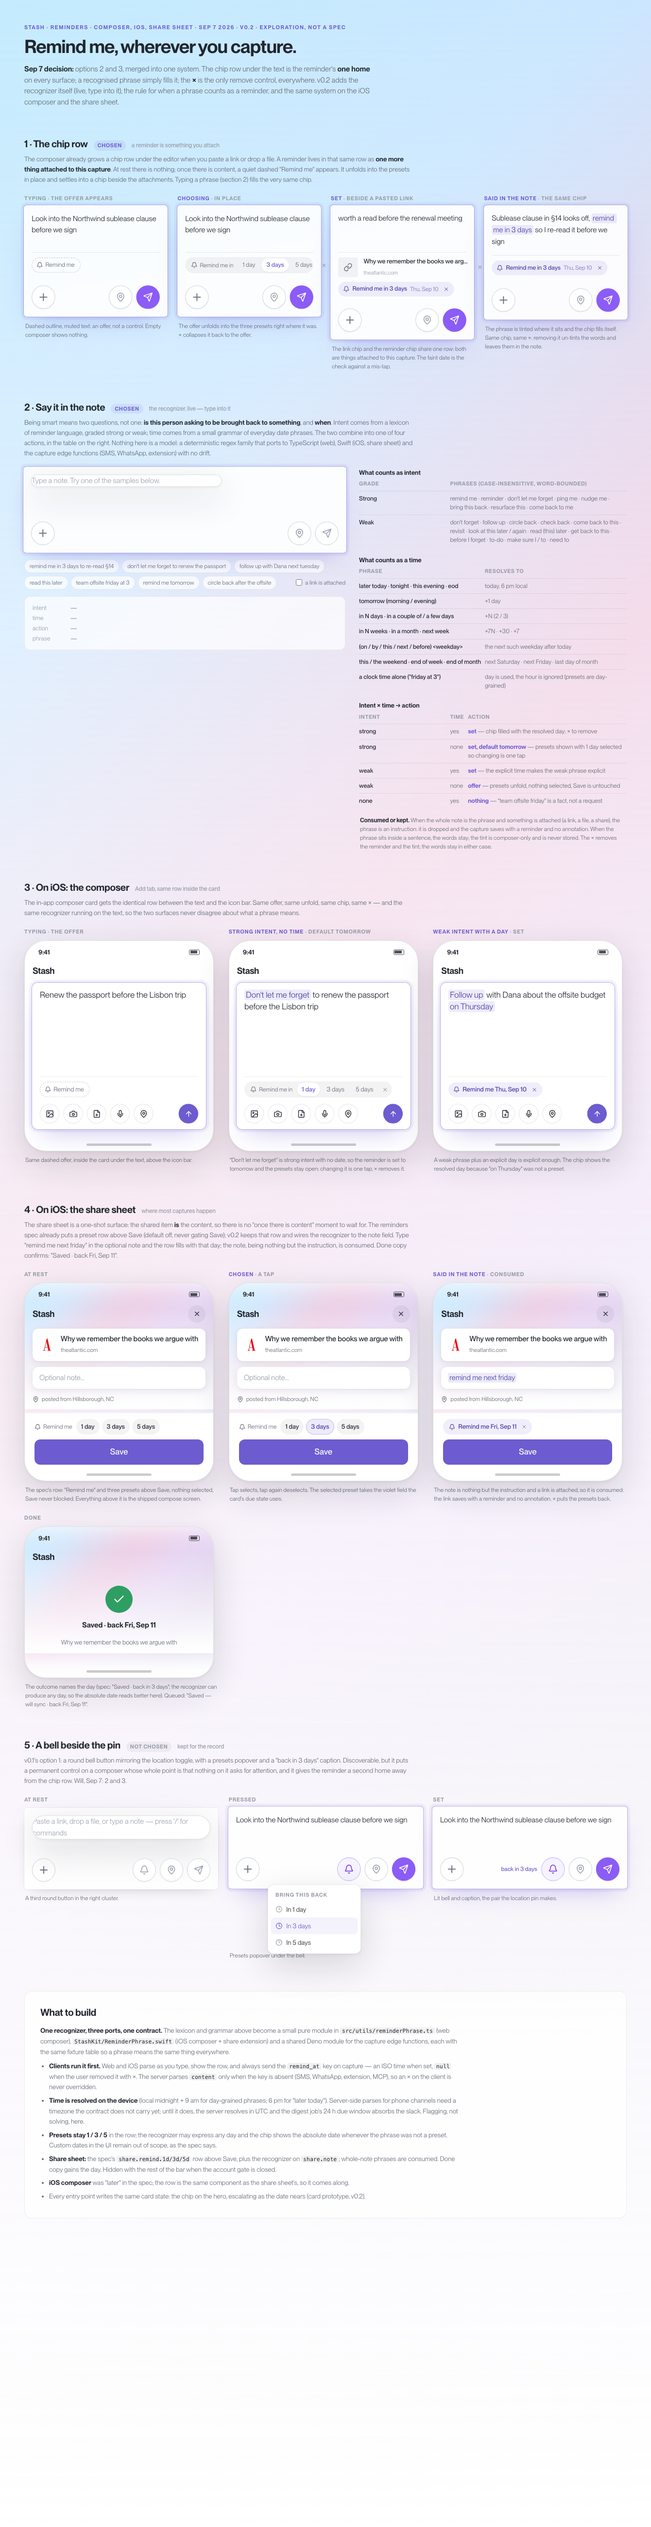
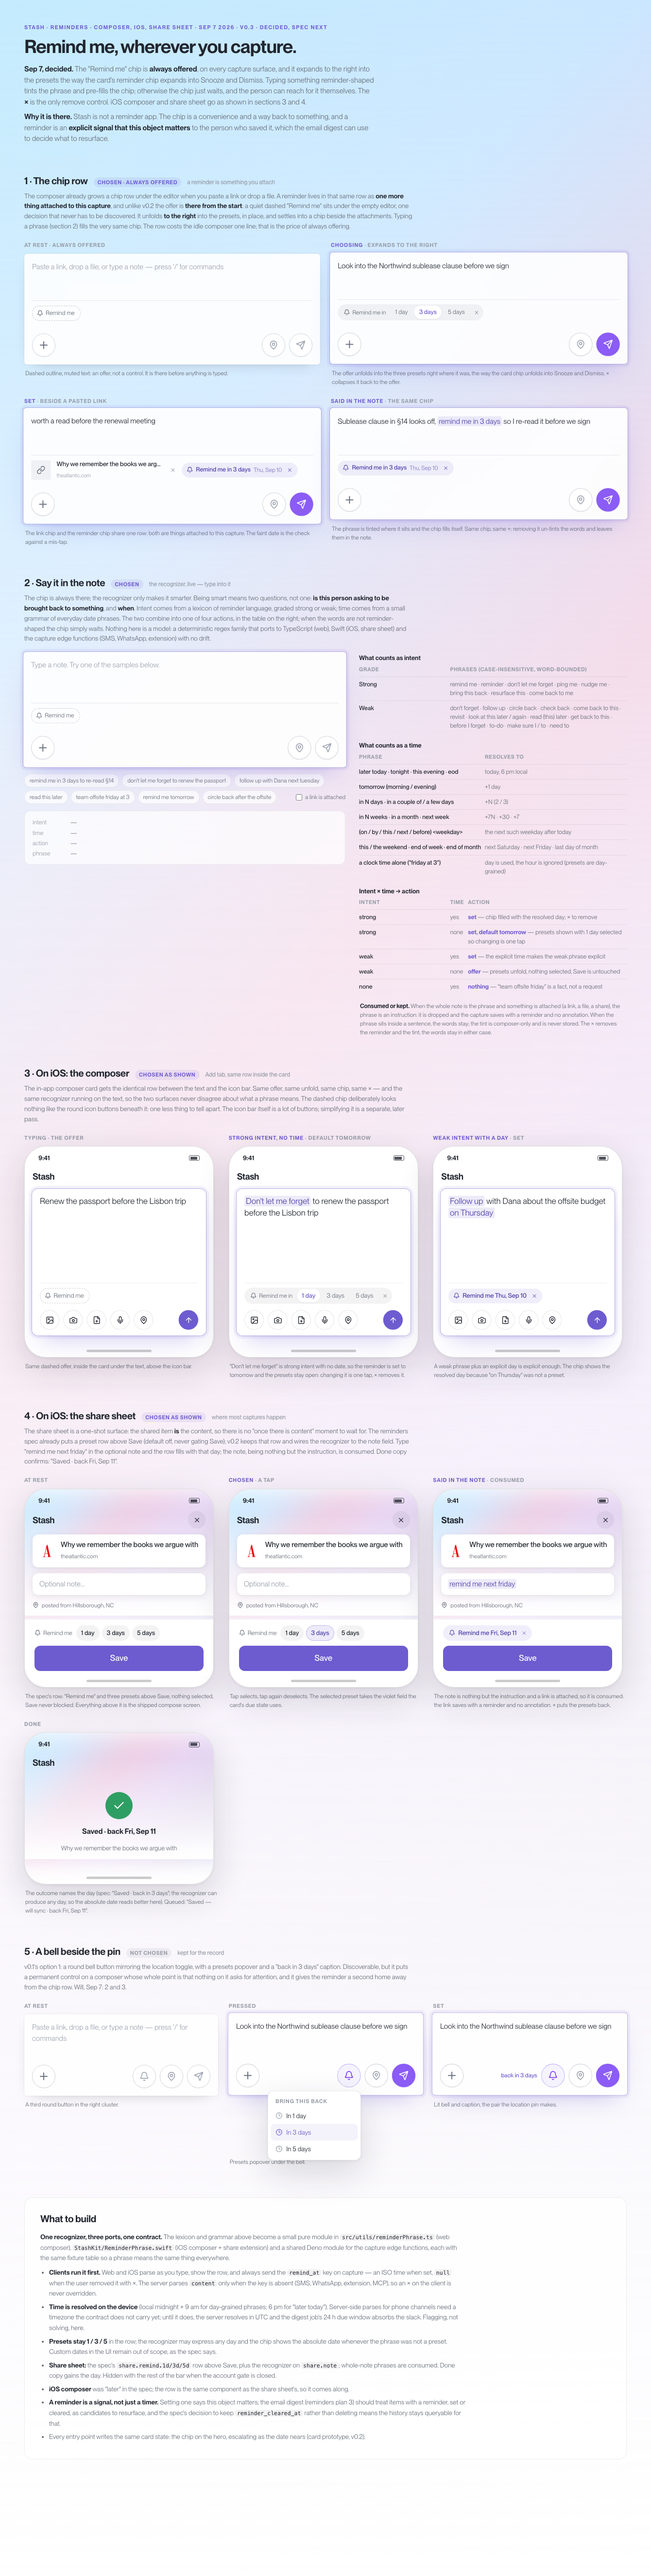
docs(prototypes): composer remind-me v0.3 — Remind me always offered; iOS composer + share sheet decided
Will's round 2 (Sep 7): the "Remind me" chip is always offered on every
capture surface (present under the empty editor, expands to the right into
the presets the way the card chip expands into Snooze/Dismiss); the
recognizer only tints and pre-fills; × is the only remove control. iOS
composer row and share sheet row go as shown. A reminder is recorded as an
explicit importance signal the email digest should use.

- Section 1 rebuilt around the at-rest offer; two-up so composers render near
  real width. Live recognizer shows the offer when empty.
- Fix: phone frame class collided with the placeholder class and boxed the
  placeholder text.
- Index row → v0.3 decided, spec next.

diff --git a/docs/superpowers/prototypes/2026-09-07-composer-remind-me.html b/docs/superpowers/prototypes/2026-09-07-composer-remind-me.html
@@ -2,7 +2,7 @@
 <html lang="en">
 <head>
 <meta charset="utf-8">
-<title>Stash — "Remind me" from the composer, iOS and the share sheet (Sep 7 2026, v0.2)</title>
+<title>Stash — "Remind me" from the composer, iOS and the share sheet (Sep 7 2026, v0.3)</title>
 <meta name="viewport" content="width=device-width, initial-scale=1">
 <style>
   @font-face { font-family:'PP Neue Montreal'; src:url('../../../src/assets/fonts/PPNeueMontreal-Book.woff2') format('woff2'); font-weight:400; font-style:normal; font-display:swap; }
@@ -128,18 +128,18 @@
   .matrix td .act { font-weight:600; color:var(--violet-600); }
 
   /* ── phones (iOS composer + share sheet) ── */
-  .ph { width:390px; max-width:100%; border-radius:44px; border:1px solid rgba(0,0,0,.12); background:#fff; position:relative; overflow:hidden; display:flex; flex-direction:column; box-shadow:0 2px 6px rgba(20,22,30,.05), 0 24px 70px rgba(30,33,44,.16); }
-  .ph .grad { position:absolute; top:0; left:-10%; right:-10%; height:260px; background:var(--splash); opacity:.25; filter:blur(24px); z-index:0; }
-  .ph .gradfade { position:absolute; top:0; left:0; right:0; height:260px; background:linear-gradient(to bottom, rgba(255,255,255,0) 20%, #fff); z-index:0; }
-  .ph > * { position:relative; z-index:1; }
-  .ph .status { display:flex; justify-content:space-between; align-items:center; padding:14px 28px 4px; font-size:13px; font-weight:600; }
-  .ph .status i { display:inline-block; width:22px; height:11px; border:1px solid var(--ink); border-radius:3px; position:relative; opacity:.8; }
-  .ph .status i::after { content:''; position:absolute; inset:1.5px; right:4px; background:var(--ink); border-radius:1px; }
-  .ph .hdr { display:flex; align-items:center; justify-content:space-between; padding:8px 16px 4px; min-height:44px; }
-  .ph .wordmark { font-weight:600; font-size:18px; letter-spacing:-.02em; }
-  .ph .xbtn { width:36px; height:36px; border-radius:50%; background:var(--chipbg); display:grid; place-items:center; color:var(--ink); }
-  .ph .xbtn svg { width:15px; height:15px; }
-  .ph .content { padding:8px 16px 20px; display:flex; flex-direction:column; gap:12px; flex:1; }
+  .phone { width:390px; max-width:100%; border-radius:44px; border:1px solid rgba(0,0,0,.12); background:#fff; position:relative; overflow:hidden; display:flex; flex-direction:column; box-shadow:0 2px 6px rgba(20,22,30,.05), 0 24px 70px rgba(30,33,44,.16); }
+  .phone .grad { position:absolute; top:0; left:-10%; right:-10%; height:260px; background:var(--splash); opacity:.25; filter:blur(24px); z-index:0; }
+  .phone .gradfade { position:absolute; top:0; left:0; right:0; height:260px; background:linear-gradient(to bottom, rgba(255,255,255,0) 20%, #fff); z-index:0; }
+  .phone > * { position:relative; z-index:1; }
+  .phone .status { display:flex; justify-content:space-between; align-items:center; padding:14px 28px 4px; font-size:13px; font-weight:600; }
+  .phone .status i { display:inline-block; width:22px; height:11px; border:1px solid var(--ink); border-radius:3px; position:relative; opacity:.8; }
+  .phone .status i::after { content:''; position:absolute; inset:1.5px; right:4px; background:var(--ink); border-radius:1px; }
+  .phone .hdr { display:flex; align-items:center; justify-content:space-between; padding:8px 16px 4px; min-height:44px; }
+  .phone .wordmark { font-weight:600; font-size:18px; letter-spacing:-.02em; }
+  .phone .xbtn { width:36px; height:36px; border-radius:50%; background:var(--chipbg); display:grid; place-items:center; color:var(--ink); }
+  .phone .xbtn svg { width:15px; height:15px; }
+  .phone .content { padding:8px 16px 20px; display:flex; flex-direction:column; gap:12px; flex:1; }
   .hcard { background:#fff; border-radius:12px; box-shadow:0 1px 2px rgba(20,22,30,.06), 0 4px 14px rgba(30,33,44,.08); }
   .prev { display:flex; align-items:center; gap:12px; padding:12px 14px; }
   .prev img { width:32px; height:32px; border-radius:7px; flex:none; }
@@ -148,7 +148,7 @@
   .prev small { font-size:12px; color:var(--muted); }
   .notef { padding:12px 14px; font-size:15px; line-height:1.4; min-height:44px; color:var(--ink); }
   .notef .ph2 { color:var(--faint); }
-  .ph .bar { padding:12px 20px 10px; background:#fff; display:flex; flex-direction:column; gap:10px; margin-top:auto; }
+  .phone .bar { padding:12px 20px 10px; background:#fff; display:flex; flex-direction:column; gap:10px; margin-top:auto; }
   .rrow { display:flex; align-items:center; gap:5px; flex-wrap:wrap; font-size:12.5px; color:var(--muted); min-height:32px; }
   .rrow .lbl { display:inline-flex; align-items:center; gap:5px; margin-right:3px; white-space:nowrap; }
   .rrow .lbl svg { width:13px; height:13px; }
@@ -194,21 +194,22 @@
 <body>
 <div class="wrap">
 
-  <div class="eyebrow">Stash · reminders · composer, iOS, share sheet · Sep 7 2026 · v0.2 · exploration, not a spec</div>
+  <div class="eyebrow">Stash · reminders · composer, iOS, share sheet · Sep 7 2026 · v0.3 · decided, spec next</div>
   <h1>Remind me, wherever you capture.</h1>
-  <p class="lede"><b>Sep 7 decision:</b> options 2 and 3, merged into one system. The chip row under the text is the reminder's <b>one home</b> on every surface; a recognised phrase simply fills it; the <b>×</b> is the only remove control, everywhere. v0.2 adds the recognizer itself (live, type into it), the rule for when a phrase counts as a reminder, and the same system on the iOS composer and the share sheet.</p>
+  <p class="lede"><b>Sep 7, decided.</b> The "Remind me" chip is <b>always offered</b>, on every capture surface, and it expands to the right into the presets the way the card's reminder chip expands into Snooze and Dismiss. Typing something reminder-shaped tints the phrase and pre-fills the chip; otherwise the chip just waits, and the person can reach for it themselves. The <b>×</b> is the only remove control. iOS composer and share sheet go as shown in sections 3 and 4.</p>
+  <p class="lede"><b>Why it is there.</b> Stash is not a reminder app. The chip is a convenience and a way back to something, and a reminder is an <b>explicit signal that this object matters</b> to the person who saved it, which the email digest can use to decide what to resurface.</p>
 
   <!-- ═══ 1 · the chip row ═══ -->
   <section class="opt">
-    <h2>1 · The chip row <span class="pill">chosen</span> <small>a reminder is something you attach</small></h2>
-    <p class="why">The composer already grows a chip row under the editor when you paste a link or drop a file. A reminder lives in that same row as <b>one more thing attached to this capture</b>. At rest there is nothing; once there is content, a quiet dashed "Remind me" appears. It unfolds into the presets in place and settles into a chip beside the attachments. Typing a phrase (section 2) fills the very same chip.</p>
-    <div class="states four" id="s1"></div>
+    <h2>1 · The chip row <span class="pill">chosen · always offered</span> <small>a reminder is something you attach</small></h2>
+    <p class="why">The composer already grows a chip row under the editor when you paste a link or drop a file. A reminder lives in that same row as <b>one more thing attached to this capture</b>, and unlike v0.2 the offer is <b>there from the start</b>: a quiet dashed "Remind me" sits under the empty editor, one decision that never has to be discovered. It unfolds <b>to the right</b> into the presets, in place, and settles into a chip beside the attachments. Typing a phrase (section 2) fills the very same chip. The row costs the idle composer one line; that is the price of always offering.</p>
+    <div class="states two" id="s1"></div>
   </section>
 
   <!-- ═══ 2 · the recognizer ═══ -->
   <section class="opt">
     <h2>2 · Say it in the note <span class="pill">chosen</span> <small>the recognizer, live — type into it</small></h2>
-    <p class="why">Being smart means two questions, not one: <b>is this person asking to be brought back to something</b>, and <b>when</b>. Intent comes from a lexicon of reminder language, graded strong or weak; time comes from a small grammar of everyday date phrases. The two combine into one of four actions, in the table on the right. Nothing here is a model: a deterministic regex family that ports to TypeScript (web), Swift (iOS, share sheet) and the capture edge functions (SMS, WhatsApp, extension) with no drift.</p>
+    <p class="why">The chip is always there; the recognizer only makes it smarter. Being smart means two questions, not one: <b>is this person asking to be brought back to something</b>, and <b>when</b>. Intent comes from a lexicon of reminder language, graded strong or weak; time comes from a small grammar of everyday date phrases. The two combine into one of four actions, in the table on the right; when the words are not reminder-shaped the chip simply waits. Nothing here is a model: a deterministic regex family that ports to TypeScript (web), Swift (iOS, share sheet) and the capture edge functions (SMS, WhatsApp, extension) with no drift.</p>
     <div class="live">
       <div>
         <div class="composer active" id="live">
@@ -259,14 +260,14 @@
 
   <!-- ═══ 3 · iOS composer ═══ -->
   <section class="opt">
-    <h2>3 · On iOS: the composer <small>Add tab, same row inside the card</small></h2>
-    <p class="why">The in-app composer card gets the identical row between the text and the icon bar. Same offer, same unfold, same chip, same × — and the same recognizer running on the text, so the two surfaces never disagree about what a phrase means.</p>
+    <h2>3 · On iOS: the composer <span class="pill">chosen as shown</span> <small>Add tab, same row inside the card</small></h2>
+    <p class="why">The in-app composer card gets the identical row between the text and the icon bar. Same offer, same unfold, same chip, same × — and the same recognizer running on the text, so the two surfaces never disagree about what a phrase means. The dashed chip deliberately looks nothing like the round icon buttons beneath it: one less thing to tell apart. The icon bar itself is a lot of buttons; simplifying it is a separate, later pass.</p>
     <div class="states" id="s3"></div>
   </section>
 
   <!-- ═══ 4 · share sheet ═══ -->
   <section class="opt">
-    <h2>4 · On iOS: the share sheet <small>where most captures happen</small></h2>
+    <h2>4 · On iOS: the share sheet <span class="pill">chosen as shown</span> <small>where most captures happen</small></h2>
     <p class="why">The share sheet is a one-shot surface: the shared item <b>is</b> the content, so there is no "once there is content" moment to wait for. The reminders spec already puts a preset row above Save (default off, never gating Save); v0.2 keeps that row and wires the recognizer to the note field. Type "remind me next friday" in the optional note and the row fills with that day; the note, being nothing but the instruction, is consumed. Done copy confirms: "Saved · back Fri, Sep 11".</p>
     <div class="states" id="s4"></div>
   </section>
@@ -287,6 +288,7 @@
       <li><b>Presets stay 1 / 3 / 5</b> in the row; the recognizer may express any day and the chip shows the absolute date whenever the phrase was not a preset. Custom dates in the UI remain out of scope, as the spec says.</li>
       <li><b>Share sheet:</b> the spec's <code>share.remind.1d/3d/5d</code> row above Save, plus the recognizer on <code>share.note</code>; whole-note phrases are consumed. Done copy gains the day. Hidden with the rest of the bar when the account gate is closed.</li>
       <li><b>iOS composer</b> was "later" in the spec; the row is the same component as the share sheet's, so it comes along.</li>
+      <li><b>A reminder is a signal, not just a timer.</b> Setting one says this object matters; the email digest (reminders plan 3) should treat items with a reminder, set or cleared, as candidates to resurface, and the spec's decision to keep <code>reminder_cleared_at</code> rather than deleting means the history stays queryable for that.</li>
       <li>Every entry point writes the same card state: the chip on the hero, escalating as the date nears (card prototype, v0.2).</li>
     </ul>
   </section>
@@ -389,8 +391,8 @@ const NOTE_A = 'Look into the Northwind sublease clause before we sign';
 
 /* section 1 */
 document.getElementById('s1').innerHTML = [
-  state('typing · the offer appears', composer({ active:true, html:esc(NOTE_A), row:ghost() }), 'Dashed outline, muted text: an offer, not a control. Empty composer shows nothing.'),
-  state('<b>choosing</b> · in place', composer({ active:true, html:esc(NOTE_A), row:presets(3) }), 'The offer unfolds into the three presets right where it was. × collapses it back to the offer.'),
+  state('at rest · always offered', composer({ row:ghost() }), 'Dashed outline, muted text: an offer, not a control. It is there before anything is typed.'),
+  state('<b>choosing</b> · expands to the right', composer({ active:true, html:esc(NOTE_A), row:presets(3) }), 'The offer unfolds into the three presets right where it was, the way the card chip unfolds into Snooze and Dismiss. × collapses it back to the offer.'),
   state('<b>set</b> · beside a pasted link', composer({ active:true, html:'worth a read before the renewal meeting', attach:{ title:'Why we remember the books we argue with', domain:'theatlantic.com' }, row:setchip('in 3 days', 'Thu, Sep 10') }), 'The link chip and the reminder chip share one row: both are things attached to this capture. The faint date is the check against a mis-tap.'),
   state('<b>said in the note</b> · the same chip', composer({ active:true, html:`Sublease clause in §14 looks off, <span class="tok">remind me in 3 days</span> so I re-read it before we sign`, row:setchip('in 3 days', 'Thu, Sep 10') }), 'The phrase is tinted where it sits and the chip fills itself. Same chip, same ×: removing it un-tints the words and leaves them in the note.'),
 ].join('');
@@ -433,9 +435,9 @@ function paintLive() {
   else if (r.action === 'set') row = setchip(labelFor(r.days, r.time), absFor(r.days, r.time)), effective = 'set';
   else if (r.action === 'set-default') row = presets(1), effective = 'set, default tomorrow';
   else if (r.action === 'offer') row = presets(null), effective = 'offer';
-  else if (text.trim() || live.attach) row = ghost();
+  else row = ghost(); // always offered
   if (live.attach) row = linkChip('Northwind lease renewal — terms redlined', 'docs.google.com') + row;
-  liverow.style.display = row ? 'flex' : 'none';
+  liverow.style.display = 'flex';
   liverow.innerHTML = row;
   livesend.classList.toggle('hot', Boolean(text.trim()) || live.attach);
   const consumed = r.consumable && live.attach && effective.startsWith('set') && !suppressed;
@@ -452,12 +454,12 @@ paintLive();
 const status = () => `<div class="status"><span>9:41</span><i></i></div>`;
 const wordmark = (close) => `<div class="hdr"><span class="wordmark">Stash</span>${close ? `<span class="xbtn" aria-label="Cancel">${ic('x')}</span>` : ''}</div>`;
 function composerPhone({ html = '', row = '', focus = true }) {
-  return `<div class="ph">${status()}${wordmark(false)}<div class="content"><div class="ccard${focus ? ' focus' : ''}"><div class="ed">${html || '<span class="ph">Save a thought, a link, anything…</span>'}</div>${row ? `<div class="chiprow">${row}</div>` : ''}<div class="cbar"><span class="ci">${ic('image')}</span><span class="ci">${ic('camera')}</span><span class="ci">${ic('fileplus')}</span><span class="ci">${ic('mic')}</span><span class="ci">${ic('pin')}</span><span class="ci send${html ? '' : ' cold'}">${ic('up')}</span></div></div></div><div class="homebar"></div></div>`;
+  return `<div class="phone">${status()}${wordmark(false)}<div class="content"><div class="ccard${focus ? ' focus' : ''}"><div class="ed">${html || '<span class="ph">Save a thought, a link, anything…</span>'}</div>${row ? `<div class="chiprow">${row}</div>` : ''}<div class="cbar"><span class="ci">${ic('image')}</span><span class="ci">${ic('camera')}</span><span class="ci">${ic('fileplus')}</span><span class="ci">${ic('mic')}</span><span class="ci">${ic('pin')}</span><span class="ci send${html ? '' : ' cold'}">${ic('up')}</span></div></div></div><div class="homebar"></div></div>`;
 }
 function sharePhone({ note = '', noteHtml = '', rrow = '', done = null }) {
   const noteBody = noteHtml || (note ? esc(note) : '<span class="ph2">Optional note…</span>');
-  if (done) return `<div class="ph"><div class="grad"></div><div class="gradfade"></div>${status()}${wordmark(false)}<div class="done"><span class="ck">${ic('check')}</span><p>${done.title}</p><small>${done.sub}</small></div><div class="homebar"></div></div>`;
-  return `<div class="ph"><div class="grad"></div><div class="gradfade"></div>${status()}${wordmark(true)}<div class="content"><div class="hcard prev"><img src="${fav('theatlantic.com')}" alt=""><span class="tx"><p>Why we remember the books we argue with</p><small>theatlantic.com</small></span></div><div class="hcard notef">${noteBody}</div><span class="pinline">${ic('pinfill')}posted from Hillsborough, NC</span></div><div class="bar"><div class="rrow">${rrow}</div><div class="savebtn">Save</div></div><div class="homebar"></div></div>`;
+  if (done) return `<div class="phone"><div class="grad"></div><div class="gradfade"></div>${status()}${wordmark(false)}<div class="done"><span class="ck">${ic('check')}</span><p>${done.title}</p><small>${done.sub}</small></div><div class="homebar"></div></div>`;
+  return `<div class="phone"><div class="grad"></div><div class="gradfade"></div>${status()}${wordmark(true)}<div class="content"><div class="hcard prev"><img src="${fav('theatlantic.com')}" alt=""><span class="tx"><p>Why we remember the books we argue with</p><small>theatlantic.com</small></span></div><div class="hcard notef">${noteBody}</div><span class="pinline">${ic('pinfill')}posted from Hillsborough, NC</span></div><div class="bar"><div class="rrow">${rrow}</div><div class="savebtn">Save</div></div><div class="homebar"></div></div>`;
 }
 const rrowPresets = (sel) => `<span class="lbl">${ic('bell')}Remind me</span>${[1, 3, 5].map(d => `<span class="pc${sel === d ? ' sel' : ''}">${d} day${d > 1 ? 's' : ''}</span>`).join('')}`;
 const rrowSet = (label, abs) => setchip(label, abs);

diff --git a/docs/superpowers/prototypes/README.md b/docs/superpowers/prototypes/README.md
@@ -26,7 +26,7 @@ stays reachable in git history.
 | Prototype | Version | Status | What it shows | Related |
 |---|---|---|---|---|
 | [card-readability-exercises](2026-09-07-card-readability-exercises.html) | v0.2 | **C chosen**; reminder ramp awaiting confirmation | Today's library card rebuilt from the shipped code, then three exercises over the same nine items: A Tidy (same bones, one meta line, bigger serif, chips demoted to hover), B One voice (Medium-literal, one family, borderless), C Uniform frame (A's type in one 176px silhouette). Opens on C. v0.2 adds "Reminders on the card": one top-left glass chip that escalates far → near → day-before → due, with live Snooze / Dismiss on rollover. Phone strip for the iOS read. Deep links: `#v=today\|a\|b\|c&hover=1&box=1&shot=grid\|phone\|ramp`. Renders: `…-today`, `…-a-tidy`, `…-a-tidy-hover`, `…-b-one-voice`, `…-c-uniform-frame`, `…-c-reminder-ramp`, `…-c-reminder-ramp-hover.png`. | DESIGN.md §Components (card anatomy, reminder chip); ui-changes 2026-08-30 card system, 2026-09-06 reminders |
-| [composer-remind-me](2026-09-07-composer-remind-me.html) | v0.2 | **2 + 3 chosen**, merged; iOS + share sheet awaiting confirmation | Reminders from the capture surfaces. v0.1 showed three options (bell beside the pin / "Remind me" offer in the input-chip row / phrase recognised in the note). v0.2, after Will chose 2 and 3: the chip row is the reminder's one home on every surface, a recognised phrase fills the same chip, × is the only remove control. Adds the **live recognizer** (type into it): strong / weak intent lexicon × time grammar → set / set-default-tomorrow / offer / nothing, plus the consumed-or-kept rule. Adds the iOS composer and the share sheet (spec's preset row above Save, wired to the note field, done copy names the day). Option 1 kept at the bottom as not chosen. Render: `2026-09-07-composer-remind-me.png`. | `UnifiedInputPanel.tsx`; `CaptureComposerView.swift`; `ShareComposeView.swift`; specs/2026-09-06-reminders-design.md §iOS; ui-changes 2026-09-06 reminders |
+| [composer-remind-me](2026-09-07-composer-remind-me.html) | v0.3 | **decided** (web chip row always offered · iOS composer as shown · share sheet as shown); spec next | Reminders from the capture surfaces. v0.1 showed three options (bell beside the pin / "Remind me" offer in the input-chip row / phrase recognised in the note). v0.2 merged 2 and 3: the chip row is the reminder's one home on every surface, a recognised phrase fills the same chip, × is the only remove control; added the **live recognizer** (strong / weak intent lexicon × time grammar → set / set-default-tomorrow / offer / nothing, consumed-or-kept rule), the iOS composer and the share sheet. v0.3, Will's round 2: the "Remind me" chip is **always offered** (present under the empty editor, expands to the right into presets); the recognizer only tints and pre-fills; a reminder is recorded as an **importance signal for the email digest**. Deep links `#shot=s1\|live\|s3\|s4\|s5`, `#shot=live&sample=N&attach=1`. Render: `2026-09-07-composer-remind-me.png`. | `UnifiedInputPanel.tsx`; `CaptureComposerView.swift`; `ShareComposeView.swift`; specs/2026-09-06-reminders-design.md §iOS; ui-changes 2026-09-06 reminders |
 | [ios-share-tutorial-swipe](2026-09-07-ios-share-tutorial-swipe.html) | v0.1 | shipped (iOS plan 13, TestFlight build 9) | Post-sign-in share-sheet tutorial as a three-panel swipe carousel. Renders: `…-panel1/2/3.png`. | ui-changes 2026-09-07 iOS share tutorial carousel; plans/2026-09-06-ios-plan-13-screenshot-import.md |
 
 ## 2026-09-06
